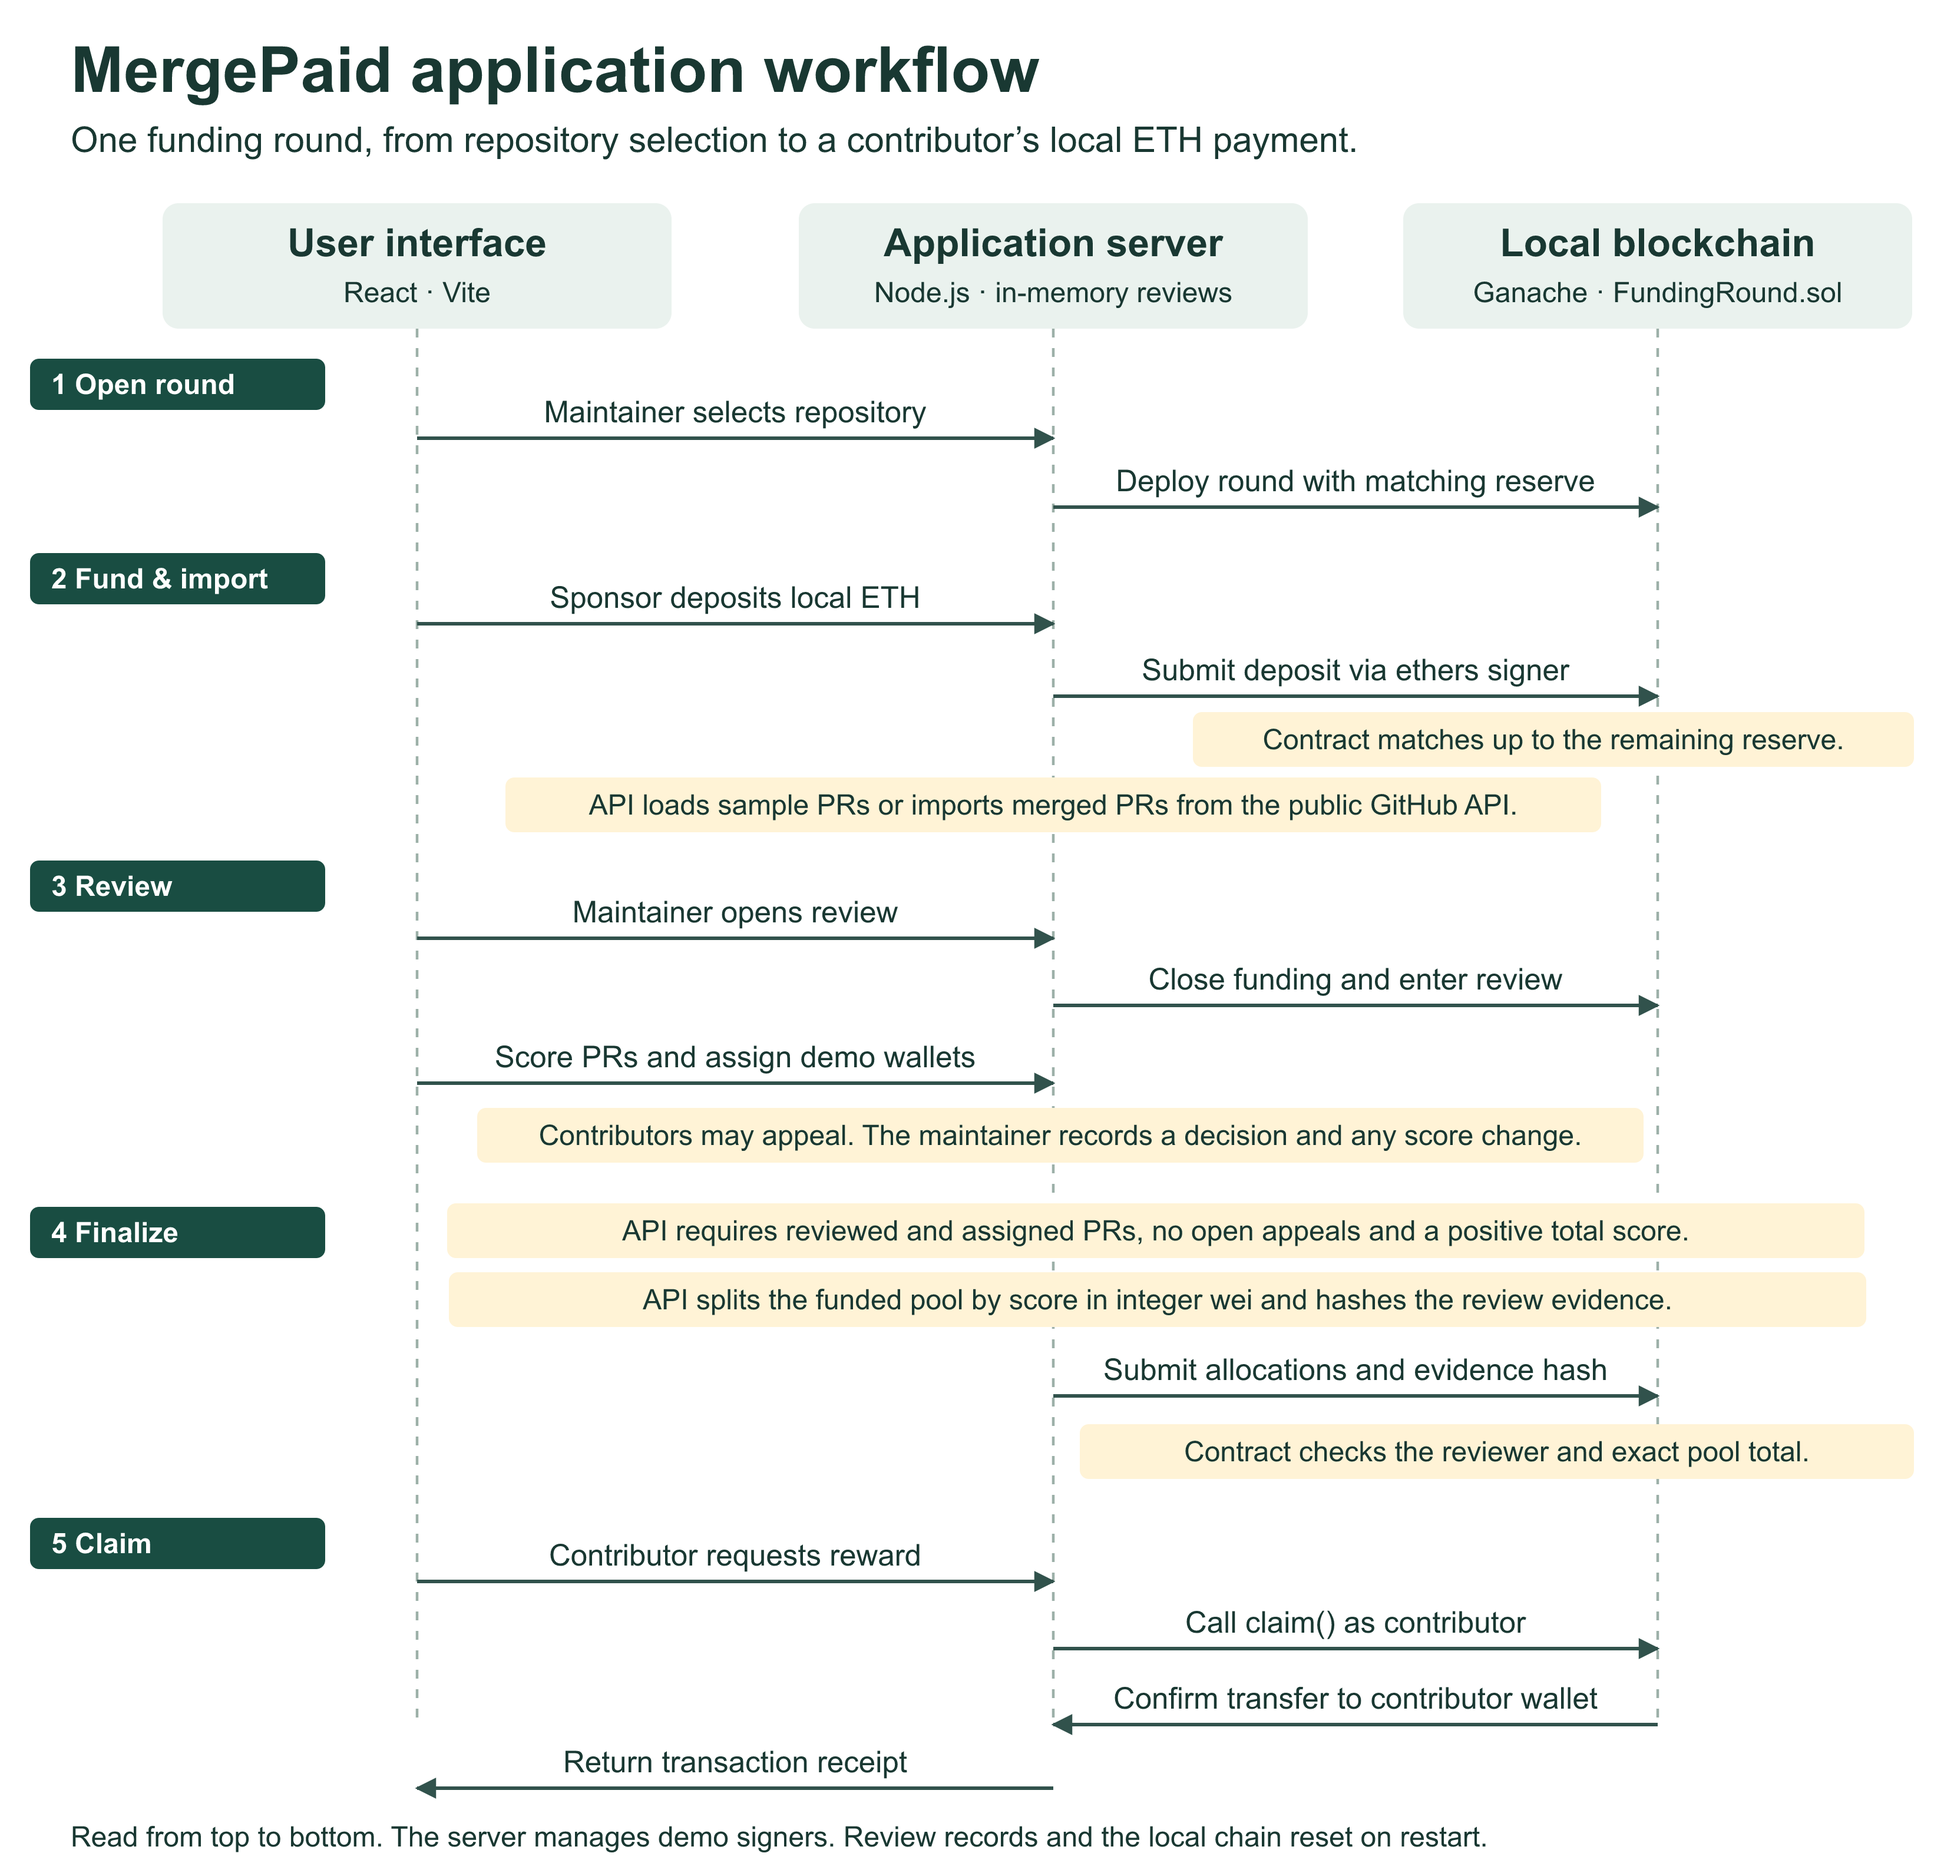
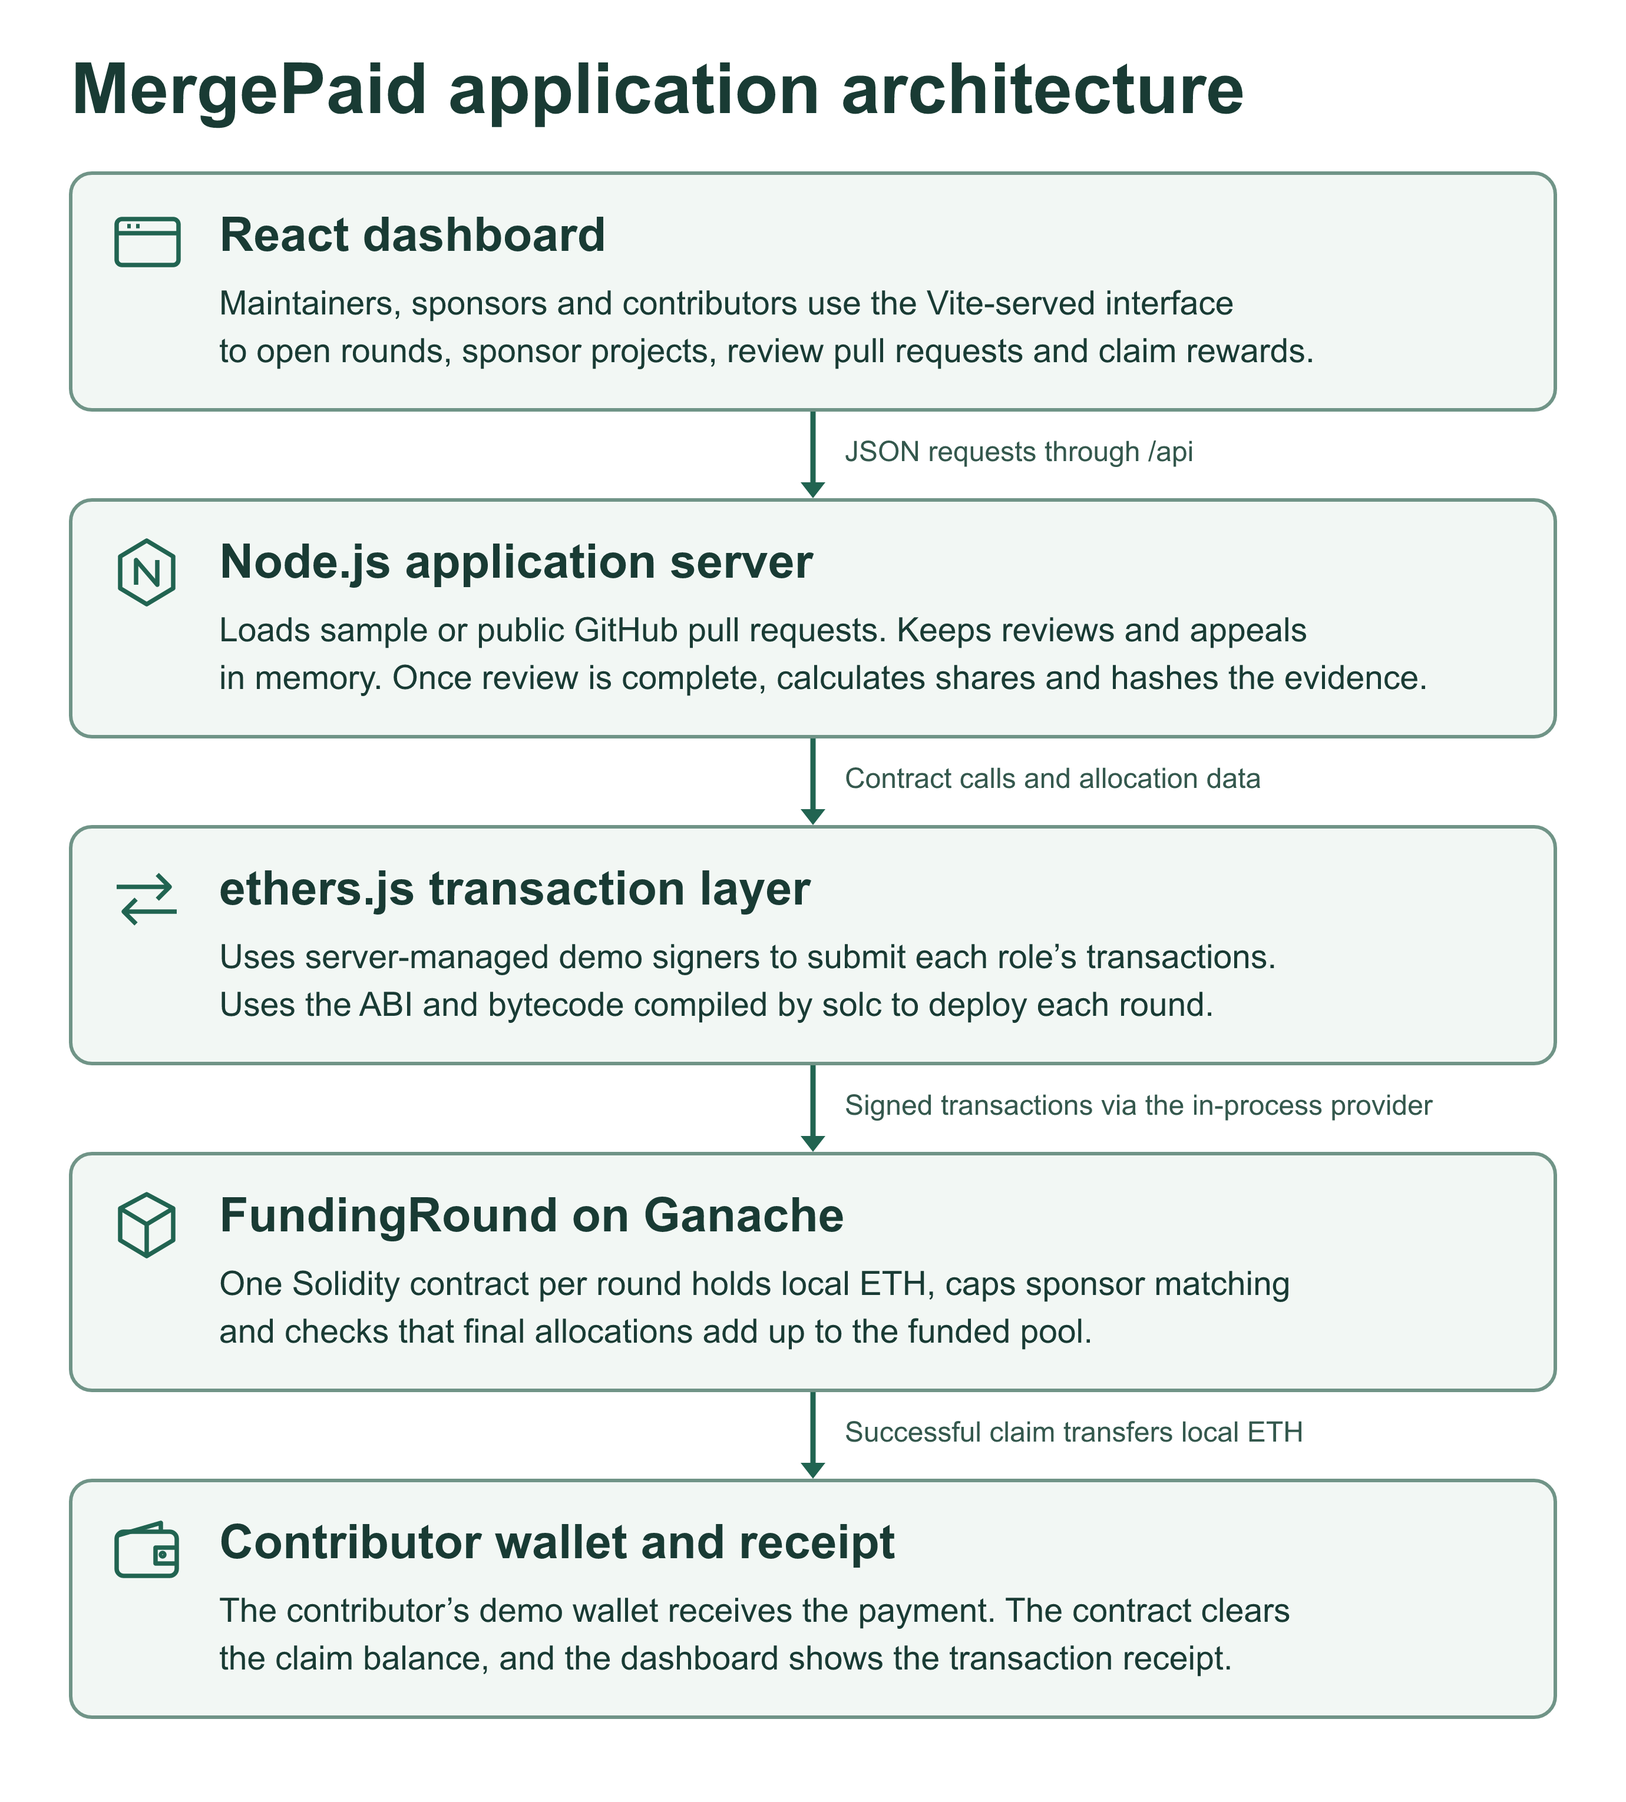
Present MergePaid architecture as one vertical component flow

diff --git a/README.md b/README.md
@@ -191,58 +191,13 @@ To use live public data, create a round with `owner/repository`, then import mer
 | Tests | Node.js test runner with real local EVM transactions |
 | Storage | In-memory only |
 
-### System architecture
-
-![MergePaid architecture showing React and Vite, the Node.js API, optional GitHub import, in-memory reviews, ethers, Solidity compilation, and the local Ganache funding contracts](docs/architecture.svg)
-
-The symbols identify the technologies actually used. Solid arrows show runtime requests, data, or value transfers; the dashed arrow carries compiler output. **Ganache runs inside the Node.js process** through an in-process provider, not through a separate public RPC service.
-
-- **Browser → API:** React sends JSON requests through Vite's `/api` proxy.
-- **API ↔ GitHub:** optional read-only imports of public PRs and changed-file metadata.
-- **API ↔ memory:** contribution scores, review explanations, and appeals remain off-chain and reset on restart.
-- **API → ethers → Ganache:** server-managed demo signers submit transactions and read state and receipts.
-- **solc → ethers:** startup compilation supplies the ABI and bytecode used to deploy a funding contract for each round.
-- **Contract → accounts / records:** approved claims transfer local ETH; contract state and events record balances, matching, and allocation evidence hashes.
-
-The contract enforces payment rules and reviewer permissions. **The application enforces review completion and appeal resolution**; those checks are not independently enforced on-chain.
-
-[Open the full-size SVG](docs/architecture.svg) · [Download PNG](docs/architecture.png) · [Editable Mermaid architecture source](docs/architecture.mmd)
-
 ### Application workflow
 
-![MergePaid sequence diagram showing the user interface, application server and local blockchain across five stages](docs/application-workflow.svg)
+![Single-flow MergePaid architecture from the React dashboard through Node.js, ethers.js and the Solidity funding contract to the contributor wallet](docs/architecture.svg)
 
-**Figure 1. MergePaid funding and reward workflow.** Sponsors fund a repository round with capped matching. The application records contribution reviews and appeals, then calculates each wallet’s share of the funded pool. The Solidity contract verifies the allocation total and lets each contributor claim their reward once.
+**Figure 1. MergePaid application architecture.** The dashboard sends user actions to the Node.js server, which manages contribution reviews and prepares reward allocations. Through ethers.js, the server submits transactions to each round’s Solidity contract on the local Ganache chain. A successful claim transfers local ETH to the contributor’s demo wallet.
 
-[Download the report figure (high-resolution PNG)](docs/application-workflow.png) · [Open the scalable vector figure (SVG)](docs/application-workflow.svg)
-
-### Funding and reward flow
-
-```mermaid
-flowchart TD
-    A([Maintainer opens a round]) --> B[Deploy contract and pre-fund matching reserve]
-    B --> C[Sponsor deposits local ETH]
-    C --> D[Contract applies 1:1 match up to remaining reserve]
-    D --> E[Load sample PRs or import public GitHub PRs]
-    E --> F[Maintainer closes funding and opens review on-chain]
-    F --> G[Reviewer assigns scores and recipient demo wallets]
-    G --> H{"All contributions reviewed<br/>and no open appeals?"}
-    H -->|No| I[Review evidence, adjust scores, and resolve appeals]
-    I --> G
-    H -->|Yes: API gate| J[Calculate proportional allocations in integer wei]
-    J --> K[Hash canonical review and allocation evidence]
-    K --> L[Reviewer finalizes allocations and evidence hash on-chain]
-    L --> M[Contributor requests claim through the local API]
-    M --> N{Unclaimed allocation exists?}
-    N -->|Yes| O[Contract clears claim balance and transfers local ETH]
-    N -->|No| P[Reject empty or duplicate claim]
-    O --> Q([Receipt displayed in the workspace])
-    classDef chain fill:#eaf3df,stroke:#8da96b,color:#34442b
-    classDef gate fill:#fff5df,stroke:#c5a466,color:#79653d
-    class B,D,F,L,N,O,P chain
-    class H gate
-```
-
+[Report image (PNG)](docs/architecture.png) · [Vector image (SVG)](docs/architecture.svg) · [Editable Mermaid flowchart](docs/architecture.mmd)
 
 The API serializes writes so two review/finalization operations cannot race. Native token amounts use integer wei; frontend decimal amounts are display-only. The contract is compiled on startup using Solidity 0.8.28 with the Shanghai EVM target. Ganache emits an optional native-module fallback warning on some Node versions; its JavaScript fallback is supported.
 
